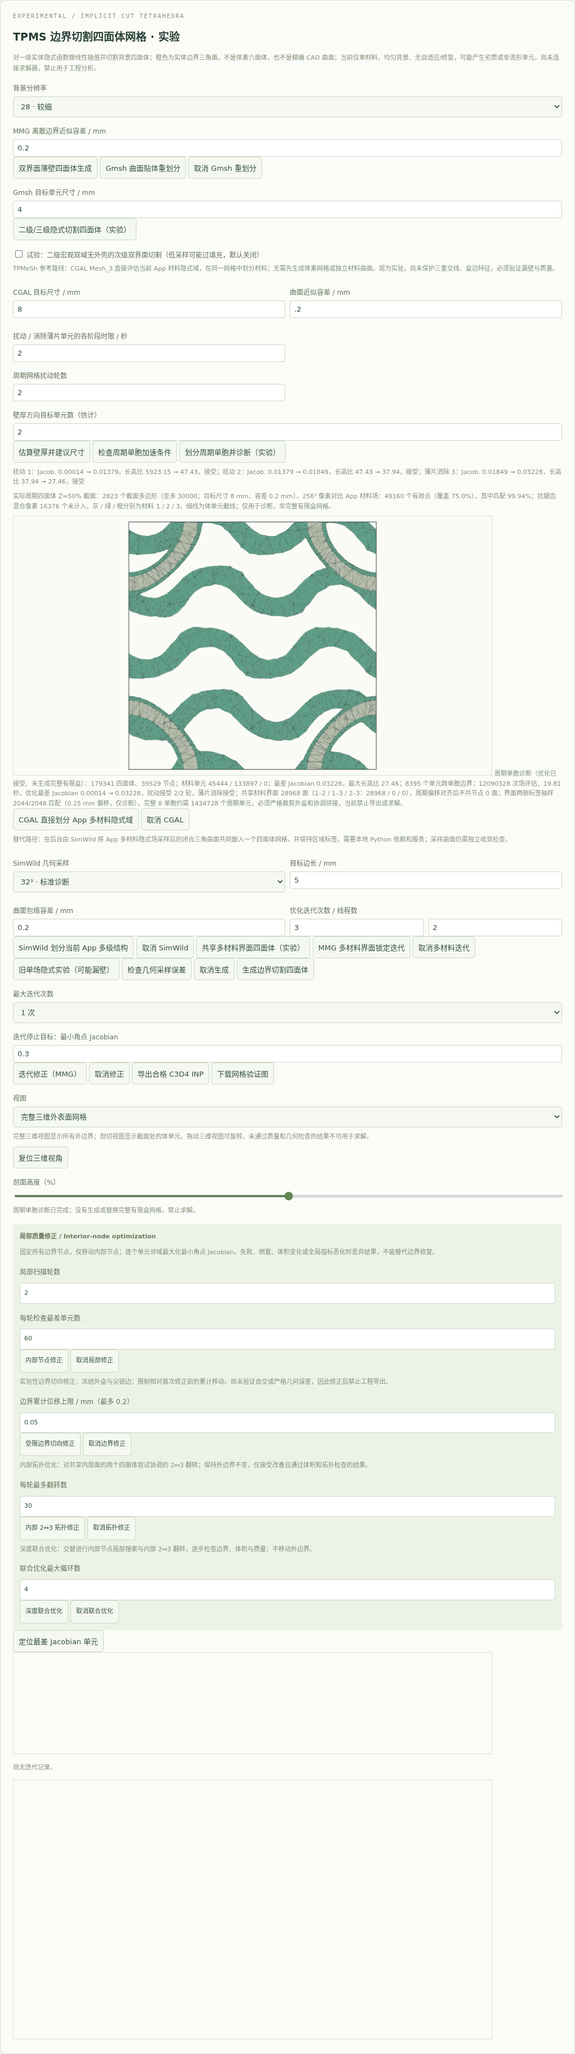
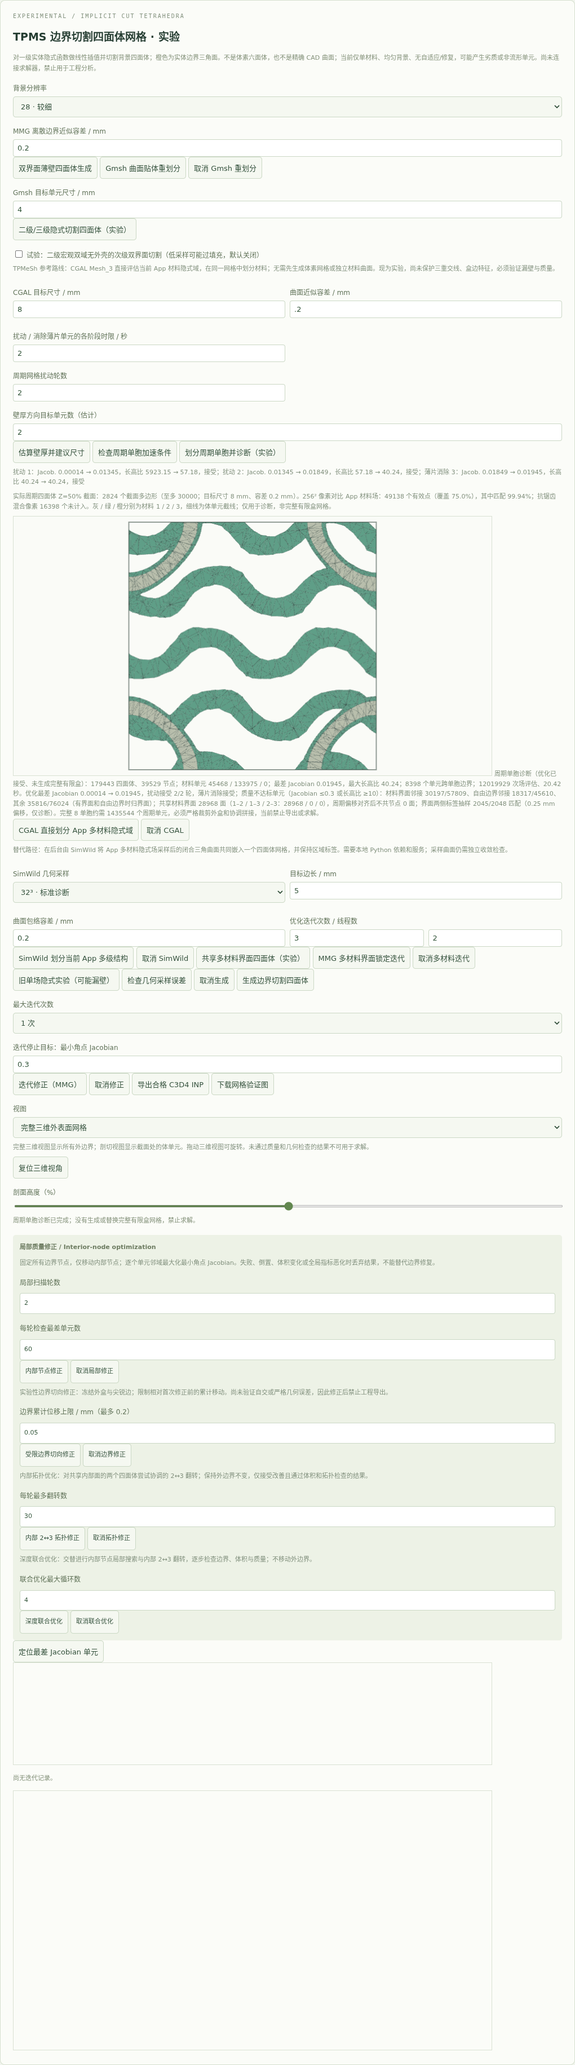
Diagnose poor periodic tetrahedra by boundary adjacency

diff --git a/index.html b/index.html
@@ -582,7 +582,7 @@ let cgalJob=null;
 $('cgalCancel').onclick=()=>{if(!cgalJob)return;cgalJob.abort.abort();if(cgalJob.worker)cgalJob.worker.terminate();if(cgalJob.cancelReject)cgalJob.cancelReject(Error('已取消'));cgalJob=null;++cutTetToken;$('cgalCancel').disabled=true;setLocalBusy(false);$('cutTetStatus').textContent='已取消 CGAL；保留原网格。';$('cgalSizingInfo').textContent='CGAL 任务已取消。'};
 function rasterPeriodicCellSlice(polygons,n=256){let canvas=document.createElement('canvas');canvas.width=canvas.height=n;let g=canvas.getContext('2d',{willReadFrequently:true});g.fillStyle='#000';g.fillRect(0,0,n,n);let colors=['#000','#f00','#0f0','#00f'];for(const poly of polygons||[]){if(!poly.xy||poly.xy.length<3)continue;g.beginPath();poly.xy.forEach(([x,y],i)=>i?g.lineTo(x*n,(1-y)*n):g.moveTo(x*n,(1-y)*n));g.closePath();g.fillStyle=colors[poly.material]||'#000';g.fill()}return g.getImageData(0,0,n,n).data}
 function drawPeriodicCellSlice(polygons){let canvas=$('cgalPeriodicCanvas'),g=canvas.getContext('2d'),side=440,ox=(canvas.width-side)/2,oy=10,colors=['#fff','#b8beac','#5f9e87','#cf8b4a'];g.clearRect(0,0,canvas.width,canvas.height);g.fillStyle='#fafbf7';g.fillRect(0,0,canvas.width,canvas.height);g.save();g.beginPath();g.rect(ox,oy,side,side);g.clip();for(const poly of polygons||[]){if(!poly.xy||poly.xy.length<3)continue;g.beginPath();poly.xy.forEach(([x,y],i)=>{let X=ox+x*side,Y=oy+(1-y)*side;i?g.lineTo(X,Y):g.moveTo(X,Y)});g.closePath();g.fillStyle=colors[poly.material]||'#555';g.fill();g.strokeStyle='rgba(25,45,40,.5)';g.lineWidth=.4;g.stroke()}g.restore();g.strokeStyle='#30443c';g.lineWidth=1;g.strokeRect(ox,oy,side,side)}
-$('cgalPeriodRun').onclick=async()=>{if(!valid||![0,2,3,4,5].includes(P.form)){$('cgalSizingInfo').textContent='请选择通过预检的多级结构。';return}let size=Number($('cgalSize').value),eps=Number($('cgalEps').value),optimization=Number($('cgalOptTime').value),cycles=Number($('cgalCycles').value),snapshot={...P},version=rev,token=++cutTetToken,abort=new AbortController();if(!(size>0&&eps>0&&eps<=size)||!Number.isInteger(optimization)||optimization<0||optimization>30||!Number.isInteger(cycles)||cycles<1||cycles>2){$('cgalSizingInfo').textContent='周期网格尺寸或容差无效。';return}let job=cgalJob={abort,worker:null};$('cgalPeriodicHistory').textContent='周期网格迭代进行中；尚无新结果。';$('cgalPeriodicInfo').textContent='等待新的周期单胞截面。';$('cgalPeriodicCanvas').getContext('2d').clearRect(0,0,$('cgalPeriodicCanvas').width,$('cgalPeriodicCanvas').height);setLocalBusy(true);$('localCancel').disabled=true;$('cgalCancel').disabled=false;try{let w=job.worker=workerFor(checkAppPeriodicity),check=await new Promise((resolve,reject)=>{job.cancelReject=reject;w.onmessage=e=>{if(e.data.progress){$('cgalSizingInfo').textContent=e.data.progress;return}w.terminate();job.worker=null;job.cancelReject=null;e.data.error?reject(Error(e.data.error)):resolve(e.data.result)};w.onerror=e=>reject(Error(e.message));w.postMessage({p:snapshot,o:{n:9},table:Array.from(table)})});if(token!==cutTetToken)return;if(!check.eligible)throw Error('不适合周期单胞：'+check.reasons.join('；'));$('cgalSizingInfo').textContent='启动周期单胞诊断，不会产生完整有限盒网格…';let response=await fetch('/api/cgal-periodic',{method:'POST',headers:{'Content-Type':'application/json'},body:JSON.stringify({p:snapshot,table:Array.from(table),size,eps,optimization,cycles}),signal:abort.signal});if(!response.ok){let e=await response.json().catch(()=>({error:'HTTP '+response.status}));throw Error(e.error)}let reader=response.body.getReader(),decoder=new TextDecoder(),buffer='',out=null;for(;;){let chunk=await reader.read();buffer+=decoder.decode(chunk.value||new Uint8Array(),{stream:!chunk.done});let lines=buffer.split('\n');buffer=lines.pop();for(let line of lines){if(!line)continue;let msg=JSON.parse(line);if(msg.progress&&token===cutTetToken)$('cgalSizingInfo').textContent=msg.progress;if(msg.error)throw Error(msg.error);if(msg.result)out=msg.result}if(chunk.done)break}if(!out)throw Error('周期单胞没有返回诊断结果。');if(token!==cutTetToken)return;if(version!==rev)throw Error('结构已改变，结果丢弃。');if(!Array.isArray(out.slice)||out.slice.length>=30000)throw Error('截面多边形缺失或达到上限，无法可信比较。');let pixels=rasterPeriodicCellSlice(out.slice),cw=job.worker=workerFor(comparePeriodicSlice),sliceCheck=await new Promise((resolve,reject)=>{job.cancelReject=reject;cw.onmessage=e=>{if(e.data.progress){$('cgalSizingInfo').textContent=e.data.progress;return}cw.terminate();job.worker=null;job.cancelReject=null;e.data.error?reject(Error(e.data.error)):resolve(e.data.result)};cw.onerror=e=>reject(Error(e.message));cw.postMessage({p:snapshot,o:{n:256,pixels},table:Array.from(table)})});if(token!==cutTetToken)return;if(version!==rev)throw Error('结构已改变，结果丢弃。');if(!sliceCheck.checked)throw Error('截面没有可比较的有效像素。');cgalJob=null;$('cgalCancel').disabled=true;setLocalBusy(false);drawPeriodicCellSlice(out.slice);$('cgalPeriodicHistory').textContent=out.optimization?.history?.length?out.optimization.history.map((h,i)=>`${h.kind===0?'扰动':'薄片消除'} ${i+1}：Jacob. ${h.beforeJac.toFixed(5)} → ${h.valid?h.afterJac.toFixed(5):'无效'}，长高比 ${h.beforeAspect.toFixed(2)} → ${h.valid?h.afterAspect.toFixed(2):'无效'}，${h.accepted?'接受':'回滚'}`).join('；'):'未执行周期质量迭代。';$('cgalPeriodicInfo').textContent=`实际周期四面体 Z=50% 截面：${out.slice?.length||0} 个截面多边形（至多 30000；目标尺寸 ${size} mm、容差 ${eps} mm）。${sliceCheck.n}² 像素对比 App 材料场：${sliceCheck.checked} 个有效点（覆盖 ${(100*sliceCheck.checked/(sliceCheck.n**2)).toFixed(1)}%），其中匹配 ${(100*sliceCheck.matched/sliceCheck.checked).toFixed(2)}%；抗锯齿混合像素 ${sliceCheck.ambiguous} 个未计入。灰 / 绿 / 橙分别为材料 1 / 2 / 3，细线为体单元截线；仅用于诊断，非完整有限盒网格。`;$('cgalSizingInfo').textContent=`周期单胞诊断（${out.optimization?.attempted?(out.optimization.accepted?'优化已接受':'优化已回滚'):'未优化'}、未生成完整有限盒）：${out.cells} 四面体、${out.vertices} 节点；材料单元 ${out.counts.join(' / ')}；最差 Jacobian ${out.jac.toFixed(5)}，最大长高比 ${out.aspect.toFixed(2)}；${out.crossing} 个单元跨单胞边界；${out.calls} 次场评估、${out.seconds.toFixed(2)} 秒。${out.optimization?.attempted?`优化最差 Jacobian ${out.optimization.beforeJac.toFixed(5)} → ${out.optimization.afterJac.toFixed(5)}，扰动接受 ${out.optimization.perturbAccepted}/${out.optimization.perturbAttempts} 轮，薄片消除${out.optimization.exudeAccepted?'接受':'回滚'}；`:''}共享材料界面 ${out.interfaces.faces} 面（1–2 / 1–3 / 2–3：${out.interfaces.pairs.join(' / ')}），周期偏移对齐后不共节点 ${out.interfaces.bad} 面；界面两侧标签抽样 ${out.interfaces.matched}/${out.interfaces.sampled} 匹配（0.25 mm 偏移，仅诊断）。完整 ${check.copies} 单胞约需 ${out.cells*check.copies} 个周期单元，必须严格裁剪外盒和协调拼接，当前禁止导出或求解。`; $('cutTetStatus').textContent='周期单胞诊断已完成；没有生成或替换完整有限盒网格，禁止求解。' }catch(err){if(token!==cutTetToken)return;if(job.worker)job.worker.terminate();abort.abort();cgalJob=null;$('cgalCancel').disabled=true;setLocalBusy(false);$('cgalPeriodicHistory').textContent='本次周期网格未完成；没有可用迭代结果。';$('cgalSizingInfo').textContent='周期单胞未完成：'+(err.message||err)}};
+$('cgalPeriodRun').onclick=async()=>{if(!valid||![0,2,3,4,5].includes(P.form)){$('cgalSizingInfo').textContent='请选择通过预检的多级结构。';return}let size=Number($('cgalSize').value),eps=Number($('cgalEps').value),optimization=Number($('cgalOptTime').value),cycles=Number($('cgalCycles').value),snapshot={...P},version=rev,token=++cutTetToken,abort=new AbortController();if(!(size>0&&eps>0&&eps<=size)||!Number.isInteger(optimization)||optimization<0||optimization>30||!Number.isInteger(cycles)||cycles<1||cycles>2){$('cgalSizingInfo').textContent='周期网格尺寸或容差无效。';return}let job=cgalJob={abort,worker:null};$('cgalPeriodicHistory').textContent='周期网格迭代进行中；尚无新结果。';$('cgalPeriodicInfo').textContent='等待新的周期单胞截面。';$('cgalPeriodicCanvas').getContext('2d').clearRect(0,0,$('cgalPeriodicCanvas').width,$('cgalPeriodicCanvas').height);setLocalBusy(true);$('localCancel').disabled=true;$('cgalCancel').disabled=false;try{let w=job.worker=workerFor(checkAppPeriodicity),check=await new Promise((resolve,reject)=>{job.cancelReject=reject;w.onmessage=e=>{if(e.data.progress){$('cgalSizingInfo').textContent=e.data.progress;return}w.terminate();job.worker=null;job.cancelReject=null;e.data.error?reject(Error(e.data.error)):resolve(e.data.result)};w.onerror=e=>reject(Error(e.message));w.postMessage({p:snapshot,o:{n:9},table:Array.from(table)})});if(token!==cutTetToken)return;if(!check.eligible)throw Error('不适合周期单胞：'+check.reasons.join('；'));$('cgalSizingInfo').textContent='启动周期单胞诊断，不会产生完整有限盒网格…';let response=await fetch('/api/cgal-periodic',{method:'POST',headers:{'Content-Type':'application/json'},body:JSON.stringify({p:snapshot,table:Array.from(table),size,eps,optimization,cycles}),signal:abort.signal});if(!response.ok){let e=await response.json().catch(()=>({error:'HTTP '+response.status}));throw Error(e.error)}let reader=response.body.getReader(),decoder=new TextDecoder(),buffer='',out=null;for(;;){let chunk=await reader.read();buffer+=decoder.decode(chunk.value||new Uint8Array(),{stream:!chunk.done});let lines=buffer.split('\n');buffer=lines.pop();for(let line of lines){if(!line)continue;let msg=JSON.parse(line);if(msg.progress&&token===cutTetToken)$('cgalSizingInfo').textContent=msg.progress;if(msg.error)throw Error(msg.error);if(msg.result)out=msg.result}if(chunk.done)break}if(!out)throw Error('周期单胞没有返回诊断结果。');if(token!==cutTetToken)return;if(version!==rev)throw Error('结构已改变，结果丢弃。');if(!Array.isArray(out.slice)||out.slice.length>=30000)throw Error('截面多边形缺失或达到上限，无法可信比较。');let pixels=rasterPeriodicCellSlice(out.slice),cw=job.worker=workerFor(comparePeriodicSlice),sliceCheck=await new Promise((resolve,reject)=>{job.cancelReject=reject;cw.onmessage=e=>{if(e.data.progress){$('cgalSizingInfo').textContent=e.data.progress;return}cw.terminate();job.worker=null;job.cancelReject=null;e.data.error?reject(Error(e.data.error)):resolve(e.data.result)};cw.onerror=e=>reject(Error(e.message));cw.postMessage({p:snapshot,o:{n:256,pixels},table:Array.from(table)})});if(token!==cutTetToken)return;if(version!==rev)throw Error('结构已改变，结果丢弃。');if(!sliceCheck.checked)throw Error('截面没有可比较的有效像素。');cgalJob=null;$('cgalCancel').disabled=true;setLocalBusy(false);drawPeriodicCellSlice(out.slice);$('cgalPeriodicHistory').textContent=out.optimization?.history?.length?out.optimization.history.map((h,i)=>`${h.kind===0?'扰动':'薄片消除'} ${i+1}：Jacob. ${h.beforeJac.toFixed(5)} → ${h.valid?h.afterJac.toFixed(5):'无效'}，长高比 ${h.beforeAspect.toFixed(2)} → ${h.valid?h.afterAspect.toFixed(2):'无效'}，${h.accepted?'接受':'回滚'}`).join('；'):'未执行周期质量迭代。';$('cgalPeriodicInfo').textContent=`实际周期四面体 Z=50% 截面：${out.slice?.length||0} 个截面多边形（至多 30000；目标尺寸 ${size} mm、容差 ${eps} mm）。${sliceCheck.n}² 像素对比 App 材料场：${sliceCheck.checked} 个有效点（覆盖 ${(100*sliceCheck.checked/(sliceCheck.n**2)).toFixed(1)}%），其中匹配 ${(100*sliceCheck.matched/sliceCheck.checked).toFixed(2)}%；抗锯齿混合像素 ${sliceCheck.ambiguous} 个未计入。灰 / 绿 / 橙分别为材料 1 / 2 / 3，细线为体单元截线；仅用于诊断，非完整有限盒网格。`;$('cgalSizingInfo').textContent=`周期单胞诊断（${out.optimization?.attempted?(out.optimization.accepted?'优化已接受':'优化已回滚'):'未优化'}、未生成完整有限盒）：${out.cells} 四面体、${out.vertices} 节点；材料单元 ${out.counts.join(' / ')}；最差 Jacobian ${out.jac.toFixed(5)}，最大长高比 ${out.aspect.toFixed(2)}；${out.crossing} 个单元跨单胞边界；${out.calls} 次场评估、${out.seconds.toFixed(2)} 秒。${out.optimization?.attempted?`优化最差 Jacobian ${out.optimization.beforeJac.toFixed(5)} → ${out.optimization.afterJac.toFixed(5)}，扰动接受 ${out.optimization.perturbAccepted}/${out.optimization.perturbAttempts} 轮，薄片消除${out.optimization.exudeAccepted?'接受':'回滚'}；`:''}质量不达标单元（Jacobian ≤0.3 或长高比 ≥10）：材料界面邻接 ${out.qualityBreakdown.bad[0]}/${out.qualityBreakdown.total[0]}、自由边界邻接 ${out.qualityBreakdown.bad[1]}/${out.qualityBreakdown.total[1]}、其余 ${out.qualityBreakdown.bad[2]}/${out.qualityBreakdown.total[2]}（有界面和自由边界时归界面）；共享材料界面 ${out.interfaces.faces} 面（1–2 / 1–3 / 2–3：${out.interfaces.pairs.join(' / ')}），周期偏移对齐后不共节点 ${out.interfaces.bad} 面；界面两侧标签抽样 ${out.interfaces.matched}/${out.interfaces.sampled} 匹配（0.25 mm 偏移，仅诊断）。完整 ${check.copies} 单胞约需 ${out.cells*check.copies} 个周期单元，必须严格裁剪外盒和协调拼接，当前禁止导出或求解。`; $('cutTetStatus').textContent='周期单胞诊断已完成；没有生成或替换完整有限盒网格，禁止求解。' }catch(err){if(token!==cutTetToken)return;if(job.worker)job.worker.terminate();abort.abort();cgalJob=null;$('cgalCancel').disabled=true;setLocalBusy(false);$('cgalPeriodicHistory').textContent='本次周期网格未完成；没有可用迭代结果。';$('cgalSizingInfo').textContent='周期单胞未完成：'+(err.message||err)}};
 $('cgalRun').onclick=async()=>{if(!valid||![0,2,3,4,5].includes(P.form)){$('cutTetStatus').textContent='请选择通过预检的二级或三级 App 结构。';return}let size=Number($('cgalSize').value),eps=Number($('cgalEps').value),optimization=Number($('cgalOptTime').value),snapshot={...P},version=rev,token=++cutTetToken,previous=cutTetResult,abort=new AbortController();if(!(size>0&&Number.isFinite(size))||!(eps>0&&eps<=size)||!Number.isInteger(optimization)||optimization<0||optimization>30){$('cutTetStatus').textContent='CGAL 网格参数无效。';return}let job=cgalJob={abort,worker:null};setLocalBusy(true);$('localCancel').disabled=true;$('cgalCancel').disabled=false;$('cutTetStatus').textContent='启动 CGAL 直接隐式域划分…';try{let response=await fetch('/api/cgal',{method:'POST',headers:{'Content-Type':'application/json'},body:JSON.stringify({p:snapshot,table:Array.from(table),size,eps,optimization}),signal:abort.signal});if(!response.ok){let e=await response.json().catch(()=>({error:'HTTP '+response.status}));throw Error(e.error)}let reader=response.body.getReader(),decoder=new TextDecoder(),buffer='',output=null;for(;;){let chunk=await reader.read();buffer+=decoder.decode(chunk.value||new Uint8Array(),{stream:!chunk.done});let lines=buffer.split('\n');buffer=lines.pop();for(let line of lines){if(!line)continue;let msg=JSON.parse(line);if(msg.progress&&token===cutTetToken)$('cutTetStatus').textContent=msg.progress;if(msg.error)throw Error(msg.error);if(msg.result)output=msg.result}if(chunk.done)break}if(!output)throw Error('CGAL 没有返回实体网格。');if(token!==cutTetToken)return;let w=job.worker=new Worker('wild-inspect-worker.js'),mesh=await new Promise((resolve,reject)=>{job.cancelReject=reject;w.onmessage=e=>{w.terminate();job.worker=null;job.cancelReject=null;e.data.error?reject(Error(e.data.error)):resolve(e.data.result)};w.onerror=e=>reject(Error(e.message));w.postMessage({...output,n:24,kind:'CGAL'})});if(token!==cutTetToken)return;if(version!==rev||cutTetResult!==previous)throw Error('结构已改变，结果丢弃。');cgalJob=null;$('cgalCancel').disabled=true;setLocalBusy(false);setCutTetResult(mesh,version)}catch(err){if(token!==cutTetToken)return;if(job.worker)job.worker.terminate();abort.abort();cgalJob=null;$('cgalCancel').disabled=true;setLocalBusy(false);$('cutTetStatus').textContent='CGAL 未应用：'+(err.message||err)+(/安全上限/.test(String(err.message||err))?' 可先检查周期单胞条件；周期单胞结果仍不是完整有限盒网格。':'')}};
 let wildJob=null;
 $('wildCancel').onclick=()=>{if(!wildJob)return;wildJob.abort.abort();if(wildJob.worker)wildJob.worker.terminate();if(wildJob.cancelReject)wildJob.cancelReject(Error('已取消'));wildJob=null;++cutTetToken;$('wildCancel').disabled=true;setLocalBusy(false);$('cutTetStatus').textContent='已取消 SimWild；保留原网格。'};

diff --git a/native/cgal-periodic.cpp b/native/cgal-periodic.cpp
@@ -27,14 +27,14 @@ using Criteria=CGAL::Mesh_criteria_3<Tr>;
 namespace prm=CGAL::parameters;
 std::string quote(const std::string&s){std::string out;for(unsigned char c:s){if(c=='\\'||c=='"')out+='\\';if(c>=32)out+=char(c);}return out;}
 struct SlicePolygon{int material;std::vector<std::array<double,2>> points;};
-struct Stats{double jac=1,aspect=0,volume[4]={},count[4]={};size_t crossing=0;std::vector<SlicePolygon> slice;};
+struct Stats{double jac=1,aspect=0,volume[4]={},count[4]={};size_t crossing=0,qualityBad[3]={},qualityTotal[3]={};std::vector<SlicePolygon> slice;};
 Stats summarize(const Mesh& mesh,double cell){
  Stats out;double &minJac=out.jac,&maxAspect=out.aspect;double *volume=out.volume,*count=out.count;size_t &crossing=out.crossing;auto sub=[](const auto&a,const auto&b){return std::array<double,3>{a[0]-b[0],a[1]-b[1],a[2]-b[2]};};auto cross=[](const auto&a,const auto&b){return std::array<double,3>{a[1]*b[2]-a[2]*b[1],a[2]*b[0]-a[0]*b[2],a[0]*b[1]-a[1]*b[0]};};auto dot=[](const auto&a,const auto&b){return a[0]*b[0]+a[1]*b[1]+a[2]*b[2];};auto len=[&](const auto&a){return std::sqrt(dot(a,a));};
  for(auto it=mesh.cells_in_complex_begin();it!=mesh.cells_in_complex_end();++it){Tr::Cell_handle c=it;int mat=mesh.subdomain_index(c);if(mat<1||mat>3)throw std::runtime_error("材料标签无效");auto tet=mesh.triangulation().tetrahedron(c);std::array<std::array<double,3>,4> v;bool outside=false;for(int i=0;i<4;i++){auto t=tet.vertex(i);v[i]={t.x(),t.y(),t.z()};}for(int k=0;k<3;k++){double lo=std::min({v[0][k],v[1][k],v[2][k],v[3][k]}),hi=std::max({v[0][k],v[1][k],v[2][k],v[3][k]});if(hi-std::floor(lo)>1+1e-12)outside=true;}if(outside)crossing++;
   // Intersect periodic tetrahedra with z=1/2 and draw seam copies; these are
   // actual tet slices for inspection only, not a finite-box tetrahedral mesh.
   if(out.slice.size()<30000){auto w=v;for(int k=0;k<3;k++){double lo=std::min({v[0][k],v[1][k],v[2][k],v[3][k]});double off=std::floor(lo);for(int i=0;i<4;i++)w[i][k]-=off;}for(int sz=-1;sz<=0;sz++){std::vector<std::array<double,2>> polygon;for(int i=0;i<4;i++)for(int j=i+1;j<4;j++){double a=w[i][2]+sz,b=w[j][2]+sz;if((a<=.5&&b>.5)||(b<=.5&&a>.5)){double t=(.5-a)/(b-a);std::array<double,2> point{w[i][0]+t*(w[j][0]-w[i][0]),w[i][1]+t*(w[j][1]-w[i][1])};bool duplicate=false;for(auto q:polygon)if(std::hypot(q[0]-point[0],q[1]-point[1])<1e-12)duplicate=true;if(!duplicate)polygon.push_back(point);}}if(polygon.size()<3)continue;double cx=0,cy=0;for(auto q:polygon){cx+=q[0];cy+=q[1];}cx/=polygon.size();cy/=polygon.size();std::sort(polygon.begin(),polygon.end(),[&](auto a,auto b){return std::atan2(a[1]-cy,a[0]-cx)<std::atan2(b[1]-cy,b[0]-cx);});for(int sx=-1;sx<=0;sx++)for(int sy=-1;sy<=0;sy++){auto copy=polygon;double xmin=2,xmax=-2,ymin=2,ymax=-2;for(auto& q:copy){q[0]+=sx;q[1]+=sy;xmin=std::min(xmin,q[0]);xmax=std::max(xmax,q[0]);ymin=std::min(ymin,q[1]);ymax=std::max(ymax,q[1]);}if(xmax>=0&&xmin<=1&&ymax>=0&&ymin<=1&&out.slice.size()<30000)out.slice.push_back({mat,std::move(copy)});}}}
-  auto e1=sub(v[1],v[0]),e2=sub(v[2],v[0]),e3=sub(v[3],v[0]);double det=dot(e1,cross(e2,e3));if(!std::isfinite(det)||det<=1e-18)throw std::runtime_error("周期网格存在退化单元");count[mat]++;volume[mat]+=det*cell*cell*cell/6;double longest=0;for(int i=0;i<4;i++)for(int j=i+1;j<4;j++)longest=std::max(longest,len(sub(v[i],v[j])));for(int i=0;i<4;i++){int ids[3],k=0;for(int j=0;j<4;j++)if(i!=j)ids[k++]=j;auto a=sub(v[ids[0]],v[i]),b=sub(v[ids[1]],v[i]),c2=sub(v[ids[2]],v[i]);minJac=std::min(minJac,det/(len(a)*len(b)*len(c2)));maxAspect=std::max(maxAspect,longest*len(cross(sub(v[ids[1]],v[ids[0]]),sub(v[ids[2]],v[ids[0]])))/det);}}
+  auto e1=sub(v[1],v[0]),e2=sub(v[2],v[0]),e3=sub(v[3],v[0]);double det=dot(e1,cross(e2,e3));if(!std::isfinite(det)||det<=1e-18)throw std::runtime_error("周期网格存在退化单元");count[mat]++;volume[mat]+=det*cell*cell*cell/6;double longest=0;for(int i=0;i<4;i++)for(int j=i+1;j<4;j++)longest=std::max(longest,len(sub(v[i],v[j])));double cellJac=1,cellAspect=0;for(int i=0;i<4;i++){int ids[3],k=0;for(int j=0;j<4;j++)if(i!=j)ids[k++]=j;auto a=sub(v[ids[0]],v[i]),b=sub(v[ids[1]],v[i]),c2=sub(v[ids[2]],v[i]);cellJac=std::min(cellJac,det/(len(a)*len(b)*len(c2)));cellAspect=std::max(cellAspect,longest*len(cross(sub(v[ids[1]],v[ids[0]]),sub(v[ids[2]],v[ids[0]])))/det);}minJac=std::min(minJac,cellJac);maxAspect=std::max(maxAspect,cellAspect);bool materialInterface=false,freeBoundary=false;for(int i=0;i<4;i++){auto nb=c->neighbor(i);if(!mesh.is_in_complex(nb))freeBoundary=true;else if(mesh.subdomain_index(nb)!=mat)materialInterface=true;}int category=materialInterface?0:(freeBoundary?1:2);out.qualityTotal[category]++;if(cellJac<=.3||cellAspect>=10)out.qualityBad[category]++;}
  return out;
 }
 struct StageLog{int kind;bool accepted,valid;double beforeJac,afterJac,beforeAspect,afterAspect;};
@@ -58,5 +58,5 @@ int main(int argc,char**argv){try{
  auto stage=[&](int kind){Mesh snapshot(mesh);double oldJac=current.jac,oldAspect=current.aspect;after=current;bool valid=false;if(kind==1)CGAL::exude_periodic_3_mesh_3(mesh,prm::time_limit(double(optTime)));else CGAL::perturb_periodic_3_mesh_3(mesh,domain,prm::time_limit(double(optTime)));bool good=false;if(mesh.number_of_cells_in_complex()<=500000){try{after=summarize(mesh,cell);valid=true;good=after.jac+1e-12>=current.jac&&after.aspect<=current.aspect*(1+1e-8)&&(after.jac>current.jac+1e-10||after.aspect<current.aspect-1e-8);for(int i=1;i<=3;i++)if(std::abs(after.volume[i]-before.volume[i])>std::max(1e-12,before.volume[i]*.02))good=false;}catch(const std::runtime_error&){good=false;}}history.push_back({kind,good,valid,oldJac,after.jac,oldAspect,after.aspect});if(good){current=after;accepted=true;}else mesh=std::move(snapshot);return good;};
  if(optTime>0){for(int i=0;i<cycles;i++){std::cout<<"@event@{\"progress\":\"周期单胞扰动第 "<<(i+1)<<" 轮，逐轮核对单元质量与材料体积…\"}"<<std::endl;perturbAttempts++;if(stage(0))perturbAccepted++;else break;}std::cout<<"@event@{\"progress\":\"执行周期薄片消除并检查质量…\"}"<<std::endl;exudeAccepted=stage(1);}
  n=mesh.number_of_cells_in_complex();std::cout<<"@event@{\"progress\":\"核查多材料公共面、周期共节点和界面两侧标签…\"}"<<std::endl;auto interfaces=auditInterfaces(mesh,cell,field);
- double seconds=std::chrono::duration<double>(std::chrono::steady_clock::now()-start).count();std::cout<<std::setprecision(12)<<"@event@{\"result\":{\"cells\":"<<n<<",\"vertices\":"<<mesh.triangulation().number_of_vertices()<<",\"crossing\":"<<current.crossing<<",\"calls\":"<<calls<<",\"seconds\":"<<seconds<<",\"jac\":"<<current.jac<<",\"aspect\":"<<current.aspect<<",\"counts\":["<<current.count[1]<<','<<current.count[2]<<','<<current.count[3]<<"],\"volumes\":["<<current.volume[1]<<','<<current.volume[2]<<','<<current.volume[3]<<"],\"optimization\":{\"attempted\":"<<(optTime>0?"true":"false")<<",\"accepted\":"<<(accepted?"true":"false")<<",\"beforeJac\":"<<before.jac<<",\"afterJac\":"<<current.jac<<",\"beforeAspect\":"<<before.aspect<<",\"afterAspect\":"<<current.aspect<<",\"perturbAttempts\":"<<perturbAttempts<<",\"perturbAccepted\":"<<perturbAccepted<<",\"exudeAccepted\":"<<(exudeAccepted?"true":"false")<<",\"history\":[";for(size_t i=0;i<history.size();i++){if(i)std::cout<<',';const auto& h=history[i];std::cout<<"{\"kind\":"<<h.kind<<",\"accepted\":"<<(h.accepted?"true":"false")<<",\"valid\":"<<(h.valid?"true":"false")<<",\"beforeJac\":"<<h.beforeJac<<",\"afterJac\":"<<h.afterJac<<",\"beforeAspect\":"<<h.beforeAspect<<",\"afterAspect\":"<<h.afterAspect<<'}';}std::cout<<"]},\"interfaces\":{\"faces\":"<<interfaces.faces<<",\"bad\":"<<interfaces.bad<<",\"pairs\":["<<interfaces.pairs[1][2]<<','<<interfaces.pairs[1][3]<<','<<interfaces.pairs[2][3]<<"],\"sampled\":"<<interfaces.sampled<<",\"matched\":"<<interfaces.matched<<"},\"slice\":[";for(size_t i=0;i<current.slice.size();i++){if(i)std::cout<<',';auto& poly=current.slice[i];std::cout<<"{\"material\":"<<poly.material<<",\"xy\":[";for(size_t j=0;j<poly.points.size();j++){if(j)std::cout<<',';std::cout<<'['<<poly.points[j][0]<<','<<poly.points[j][1]<<']';}std::cout<<"]}";}std::cout<<"]}}"<<std::endl;
+ double seconds=std::chrono::duration<double>(std::chrono::steady_clock::now()-start).count();std::cout<<std::setprecision(12)<<"@event@{\"result\":{\"cells\":"<<n<<",\"vertices\":"<<mesh.triangulation().number_of_vertices()<<",\"crossing\":"<<current.crossing<<",\"calls\":"<<calls<<",\"seconds\":"<<seconds<<",\"jac\":"<<current.jac<<",\"aspect\":"<<current.aspect<<",\"counts\":["<<current.count[1]<<','<<current.count[2]<<','<<current.count[3]<<"],\"volumes\":["<<current.volume[1]<<','<<current.volume[2]<<','<<current.volume[3]<<"],\"qualityBreakdown\":{\"total\":["<<current.qualityTotal[0]<<','<<current.qualityTotal[1]<<','<<current.qualityTotal[2]<<"],\"bad\":["<<current.qualityBad[0]<<','<<current.qualityBad[1]<<','<<current.qualityBad[2]<<"]},\"optimization\":{\"attempted\":"<<(optTime>0?"true":"false")<<",\"accepted\":"<<(accepted?"true":"false")<<",\"beforeJac\":"<<before.jac<<",\"afterJac\":"<<current.jac<<",\"beforeAspect\":"<<before.aspect<<",\"afterAspect\":"<<current.aspect<<",\"perturbAttempts\":"<<perturbAttempts<<",\"perturbAccepted\":"<<perturbAccepted<<",\"exudeAccepted\":"<<(exudeAccepted?"true":"false")<<",\"history\":[";for(size_t i=0;i<history.size();i++){if(i)std::cout<<',';const auto& h=history[i];std::cout<<"{\"kind\":"<<h.kind<<",\"accepted\":"<<(h.accepted?"true":"false")<<",\"valid\":"<<(h.valid?"true":"false")<<",\"beforeJac\":"<<h.beforeJac<<",\"afterJac\":"<<h.afterJac<<",\"beforeAspect\":"<<h.beforeAspect<<",\"afterAspect\":"<<h.afterAspect<<'}';}std::cout<<"]},\"interfaces\":{\"faces\":"<<interfaces.faces<<",\"bad\":"<<interfaces.bad<<",\"pairs\":["<<interfaces.pairs[1][2]<<','<<interfaces.pairs[1][3]<<','<<interfaces.pairs[2][3]<<"],\"sampled\":"<<interfaces.sampled<<",\"matched\":"<<interfaces.matched<<"},\"slice\":[";for(size_t i=0;i<current.slice.size();i++){if(i)std::cout<<',';auto& poly=current.slice[i];std::cout<<"{\"material\":"<<poly.material<<",\"xy\":[";for(size_t j=0;j<poly.points.size();j++){if(j)std::cout<<',';std::cout<<'['<<poly.points[j][0]<<','<<poly.points[j][1]<<']';}std::cout<<"]}";}std::cout<<"]}}"<<std::endl;
  }catch(const std::exception&e){std::cerr<<e.what()<<'\n';std::cout<<"@event@{\"error\":\""<<quote(e.what())<<"\"}"<<std::endl;return 1;}return 0;}

diff --git a/README.md b/README.md
@@ -199,3 +199,9 @@ GUI 的「划分周期单胞并诊断」现在通过 CGAL Periodic Mesh_3 直接
 重新编译当前源码后，真实 GUI（8 mm、0.2 mm、每阶段 2 秒、两轮）二级：179341 四面体，最差 Jacobian 0.00014→0.03228，最大长高比 27.46；28968 个 1–2 公共面，偏移对齐后 0 面不共节点；界面抽样 2044/2048 匹配。三级：443316 四面体，最差 Jacobian 0.00048→0.02056，最大长高比 33.95；90367 公共面（1–2 为 32114，1–3 为 0，2–3 为 58253），0 面不共节点；界面抽样 2039/2048 匹配。扰动两轮及 exude 均接受，结果因时限和调度可能变化。截面和指标截图分别为 `screenshots/cgal-shared-cell-{1,2}-opt2-cycles2.png`、`screenshots/cgal-shared-mesh-{1,2}-opt2-cycles2.png`。有效截面像素覆盖分别只有 75.0% 和 48.2%，因此其匹配率不代表整个截面或三维几何。
 
 这两例仍未满足最差 Jacobian >0.3、长高比 <10 的质量门槛，且仍有大量跨单胞单元；**既不能导出，也不能用于求解**。有限盒共形拼接、特征交线保护和严格几何验证仍未实现。
+
+### 质量不足的分布与较长优化试验
+
+GUI 进一步将不达标四面体按邻面分为材料界面、自由边界和其余三类；同时邻接材料界面和自由边界者归入材料界面，三类互斥。判定仍是 Jacobian ≤0.3 **或**长高比 ≥10，不能用分类计数替代几何验证。真实二级两轮、每阶段 2 秒试验中分别为 30197/57809、18317/45610、35816/76024，总计 84330/179443（47.0%）不达标；三级分别为 81960/175862、27950/66249、94473/201047，总计 204383/443158（46.1%）不达标。两例界面分别有 28968 和 90365 个公共面，不共节点面为 0。质量不足遍及界面、自由边界和内部，并非仅有少量坏单元；数字随时间限制和调度变化。
+
+同一 GUI 把每阶段时限加到 10 秒，两轮扰动后再 exude：二级最差 Jacobian 0.03228、最大长高比 20.39，仍远未达标；三级原生进程发生 SIGSEGV，未返回网格。该次试验没有证明延长时间可靠或足够，也不意味着已解决根本问题；不要将其用于求解。继续工作需要定位原生优化器崩溃和大量坏单元的成因，研究保持多材料界面的局部重网格及特征保护，而不是只增加时间或重复平滑。
